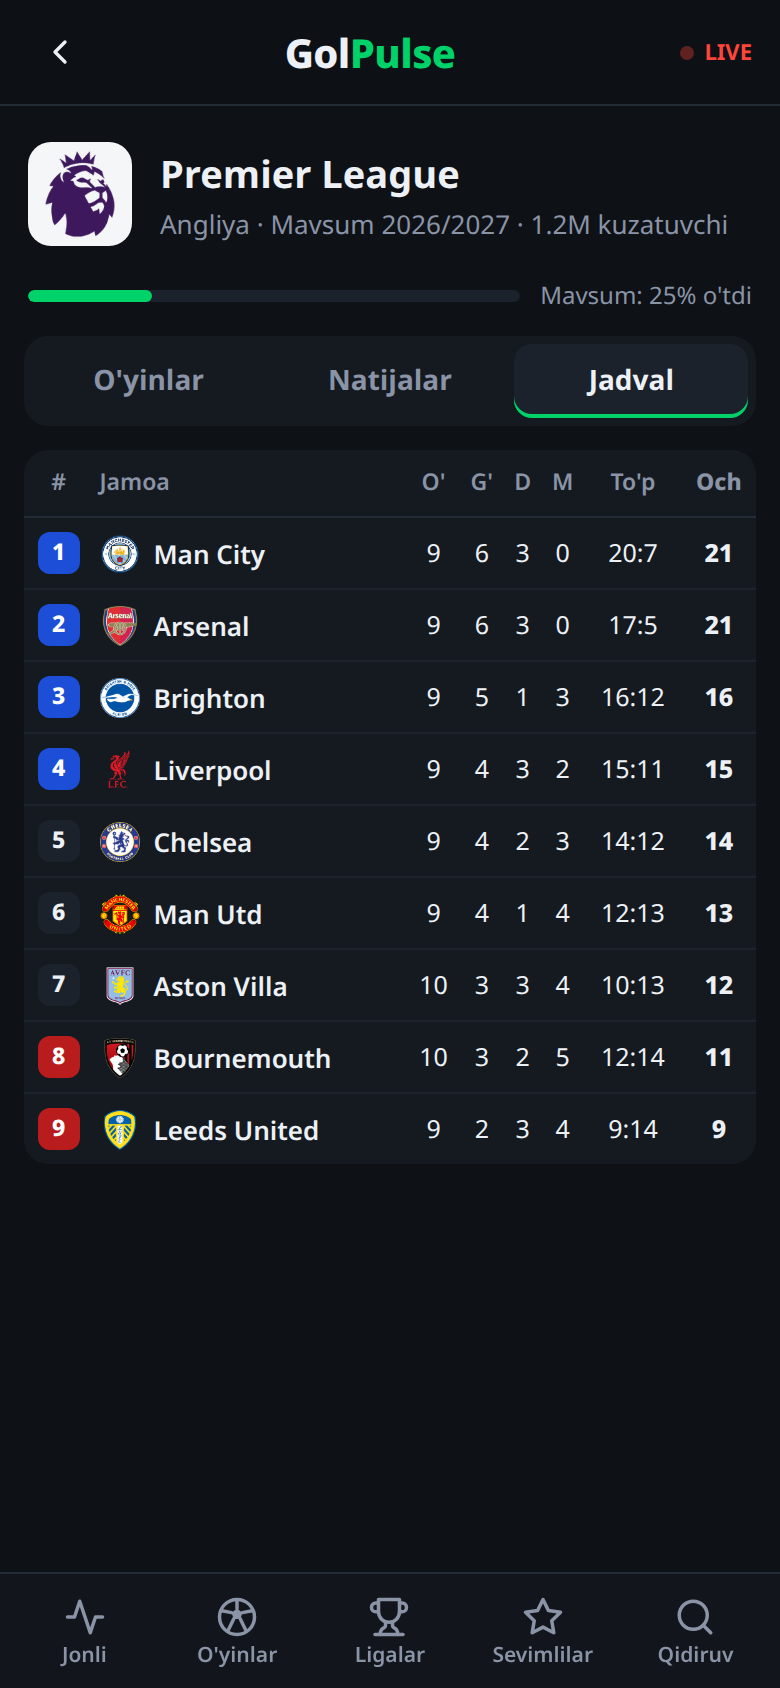
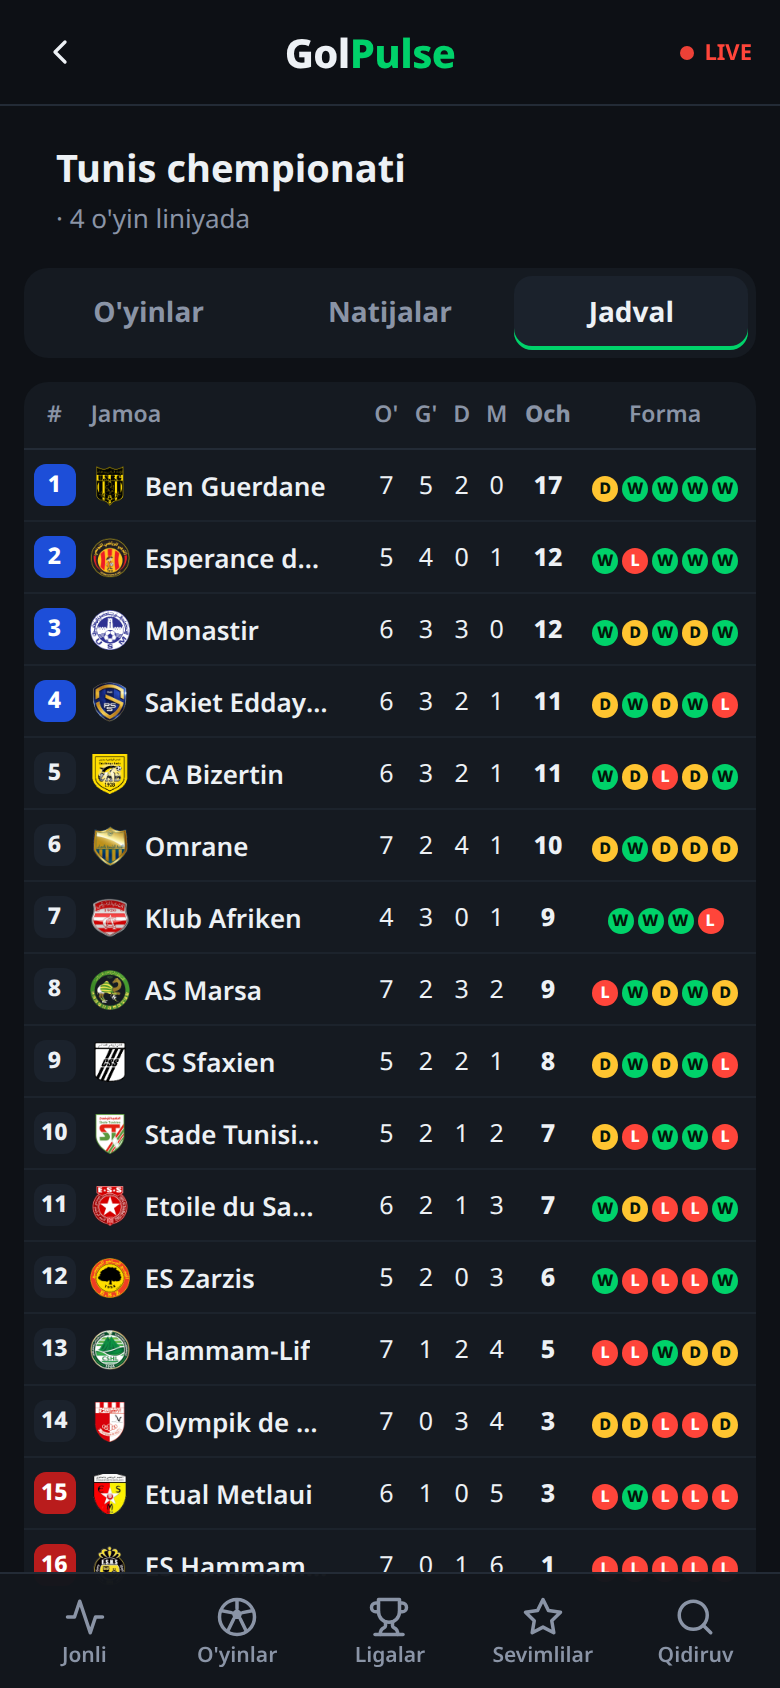
Fix: liga nomi ellipsis + liga hero subtitr

diff --git a/app/src/styles.css b/app/src/styles.css
@@ -84,7 +84,7 @@ h3 { margin: 0; }
 .league-flag { font-size: 17px; }
 .league-flag.big { font-size: 24px; }
 .league-flag.hero { font-size: 40px; }
-.league-name { font-weight: 700; font-size: 14px; white-space: nowrap; }
+.league-name { font-weight: 700; font-size: 14px; white-space: nowrap; overflow: hidden; text-overflow: ellipsis; min-width: 0; }
 .league-country { font-size: 10px; color: var(--muted); letter-spacing: 0.5px; }
 .match-row { display: flex; width: 100%; text-align: left; padding: 9px 12px; border-bottom: 1px solid rgba(35, 43, 54, 0.6); min-height: 52px; align-items: center; gap: 8px; }
 .match-row:last-child { border-bottom: none; }

diff --git a/app/src/pages/LeaguePage.tsx b/app/src/pages/LeaguePage.tsx
@@ -41,7 +41,7 @@ export default function LeaguePage({ id }: { id: string }) {
         <LeagueLogo leagueId={id} league={league} size={52} />
         <div>
           <h2>{league.name}</h2>
-          <div className="league-hero-sub">{league.country}{data.games.length ? ` · ${data.games.length} o'yin liniyada` : ''}</div>
+          <div className="league-hero-sub">{[league.country, data.games.length ? `${data.games.length} o'yin liniyada` : ''].filter(Boolean).join(' · ')}</div>
         </div>
       </div>
 
